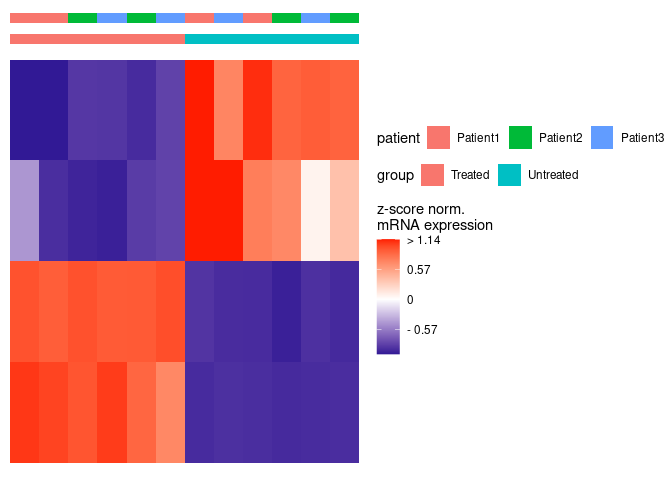
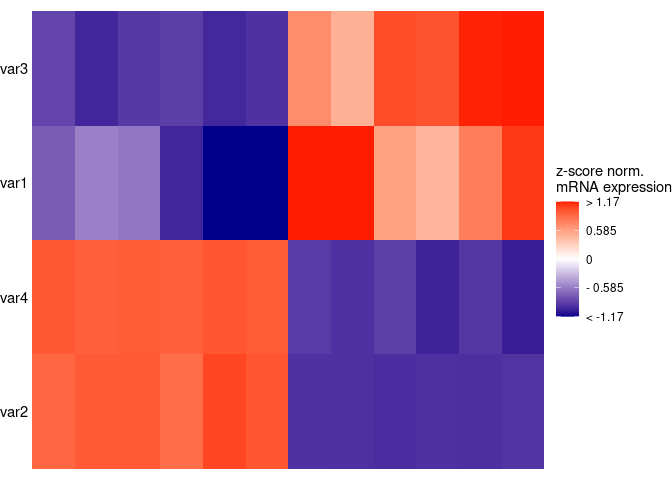
added examples and fixed names

diff --git a/README.md b/README.md
@@ -33,6 +33,15 @@ df <- data.frame(samples = c(paste0("untreated", 1:6), paste0("treated", 7:12)),
                  var3 = c(rnorm(6, 50, 5),  rnorm(6, 10, 1)),
                  var4 = c(rnorm(6, 10, 1),  rnorm(6, 60, .7)))
 
+head(df)
+#>      samples     group  patient batch      var1      var2     var3      var4
+#> 1 untreated1 Untreated Patient1     1  9.635496  8.702448 47.30708 11.230937
+#> 2 untreated2 Untreated Patient2     2  9.383444 10.441290 46.90473  7.574859
+#> 3 untreated3 Untreated Patient3     1 10.105569  9.703693 49.90321 10.155978
+#> 4 untreated4 Untreated Patient1     2 10.785015 11.712117 51.88102  6.910724
+#> 5 untreated5 Untreated Patient2     1 10.971016 10.692509 41.26765 10.584639
+#> 6 untreated6 Untreated Patient3     2 11.318634 10.336982 37.23171  9.487518
+
 heatmap_plot <- simpleHM(df, excluded_vars = "batch")    
 #> normalisation done
 #> clustering samples done
@@ -43,7 +52,33 @@ heatmap_plot
 
 <img src="man/figures/README-example-1.png" width="100%" />
 
-You can also add Annotaiton bars for several of the conditions by using
+By default the sample names for \<50 samples or \>100 params are hidden.
+You can also hide them by using the `show_sample_names` and
+`show_param_names` arguments.
+
+``` r
+heatmap_plot_no_sample_names <- simpleHM(df, excluded_vars = "batch", show_sample_names = F)    
+#> normalisation done
+#> clustering samples done
+#> clustering params done
+#> plotting now
+heatmap_plot_no_sample_names
+```
+
+<img src="man/figures/README-unnamed-chunk-2-1.png" width="100%" />
+
+``` r
+heatmap_plot_no_param_names <- simpleHM(df, excluded_vars = "batch", show_param_names = F)    
+#> normalisation done
+#> clustering samples done
+#> clustering params done
+#> plotting now
+heatmap_plot_no_param_names
+```
+
+<img src="man/figures/README-unnamed-chunk-2-2.png" width="100%" />
+
+You can also add Annotation bars for several of the conditions by using
 the `add_annotation` parameter:
 
 ``` r
@@ -57,7 +92,7 @@ hm_with_anno <- simpleHM(df, add_annotation = T, anno_col = c("group", "patient"
 hm_with_anno
 ```
 
-<img src="man/figures/README-unnamed-chunk-2-1.png" width="100%" />
+<img src="man/figures/README-unnamed-chunk-3-1.png" width="100%" />
 
 By default, the samples and parameters are clustered. To display the
 dendrograms, set `add_dendros=T`.
@@ -73,6 +108,65 @@ hm_with_dendro <- simpleHM(df, excluded_vars = "batch", add_dendros = T)
 #> Scale for x is already present.
 #> Adding another scale for x, which will replace the existing scale.
 ```
+
+Dendrograms are a for to visualise hierarchical clustering, but the
+branches can be rotated freely, without a change in clustering or
+distance between branches. For this purpose, the `pull_top` and
+`pull_side` arguments can be used to “pull” certain samples to the front
+through rotation along the branches of the tree.
+
+``` r
+simpleHM(df, excluded_vars = "batch", add_dendros = T )
+#> normalisation done
+#> clustering samples done
+#> clustering params done
+#> plotting now
+#> Scale for y is already present.
+#> Adding another scale for y, which will replace the existing scale.
+#> Scale for x is already present.
+#> Adding another scale for x, which will replace the existing scale.
+```
+
+<img src="man/figures/README-unnamed-chunk-5-1.png" width="100%" />
+
+``` r
+simpleHM(df, excluded_vars = "batch", add_dendros = T, pull_top = 7:12)
+#> normalisation done
+#> clustering samples done
+#> clustering params done
+#> plotting now
+#> Scale for y is already present.
+#> Adding another scale for y, which will replace the existing scale.Scale for x is already present.
+#> Adding another scale for x, which will replace the existing scale.
+```
+
+<img src="man/figures/README-unnamed-chunk-5-2.png" width="100%" />
+
+``` r
+simpleHM(df, excluded_vars = "batch", add_dendros = T, pull_side = 3:4)
+#> normalisation done
+#> clustering samples done
+#> clustering params done
+#> plotting now
+#> Scale for y is already present.
+#> Adding another scale for y, which will replace the existing scale.Scale for x is already present.
+#> Adding another scale for x, which will replace the existing scale.
+```
+
+<img src="man/figures/README-unnamed-chunk-5-3.png" width="100%" />
+
+``` r
+simpleHM(df, excluded_vars = "batch", add_dendros = T, pull_side = c("var1", "var3"))
+#> normalisation done
+#> clustering samples done
+#> clustering params done
+#> plotting now
+#> Scale for y is already present.
+#> Adding another scale for y, which will replace the existing scale.Scale for x is already present.
+#> Adding another scale for x, which will replace the existing scale.
+```
+
+<img src="man/figures/README-unnamed-chunk-5-4.png" width="100%" />
 
 These options can also be combined:
 
@@ -91,4 +185,4 @@ annotated_hm_with_dendro <- simpleHM(df, excluded_vars = "batch", add_annotation
 annotated_hm_with_dendro
 ```
 
-<img src="man/figures/README-unnamed-chunk-4-1.png" width="100%" />
+<img src="man/figures/README-unnamed-chunk-6-1.png" width="100%" />
